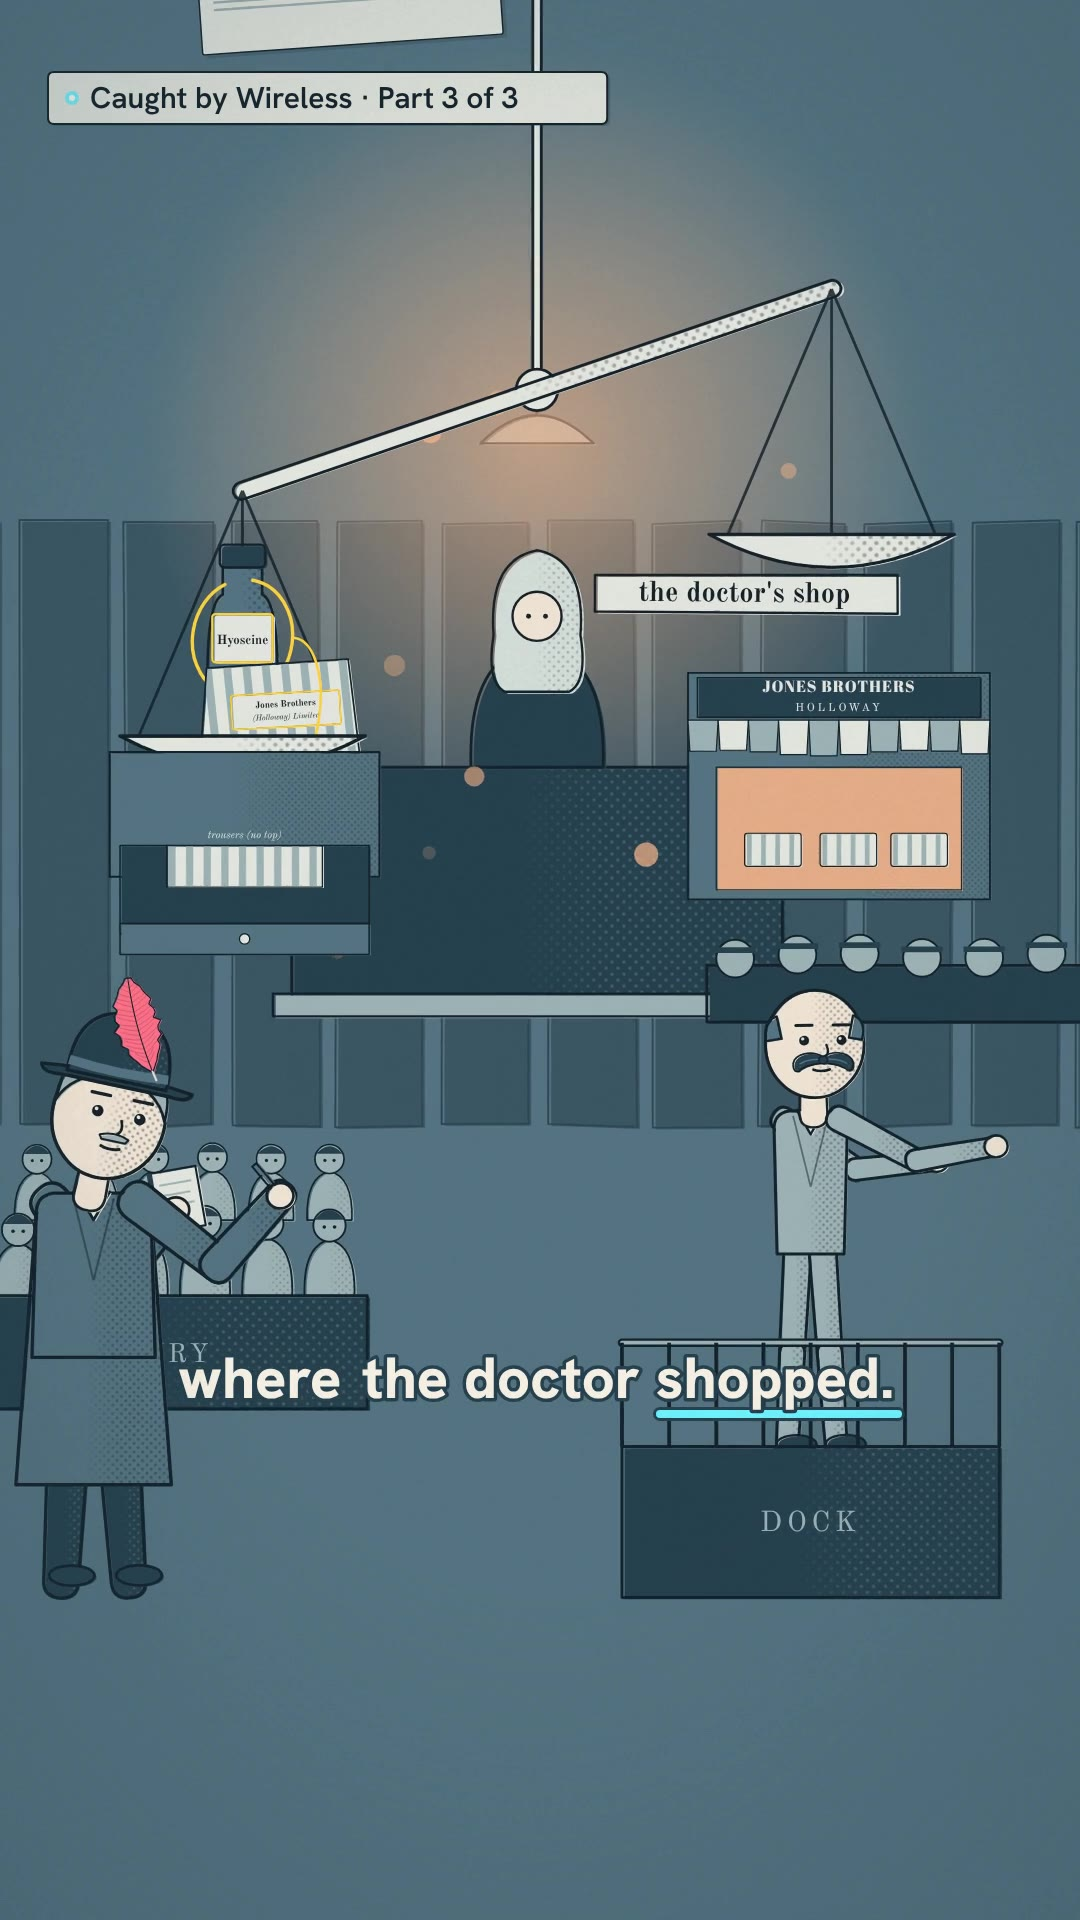
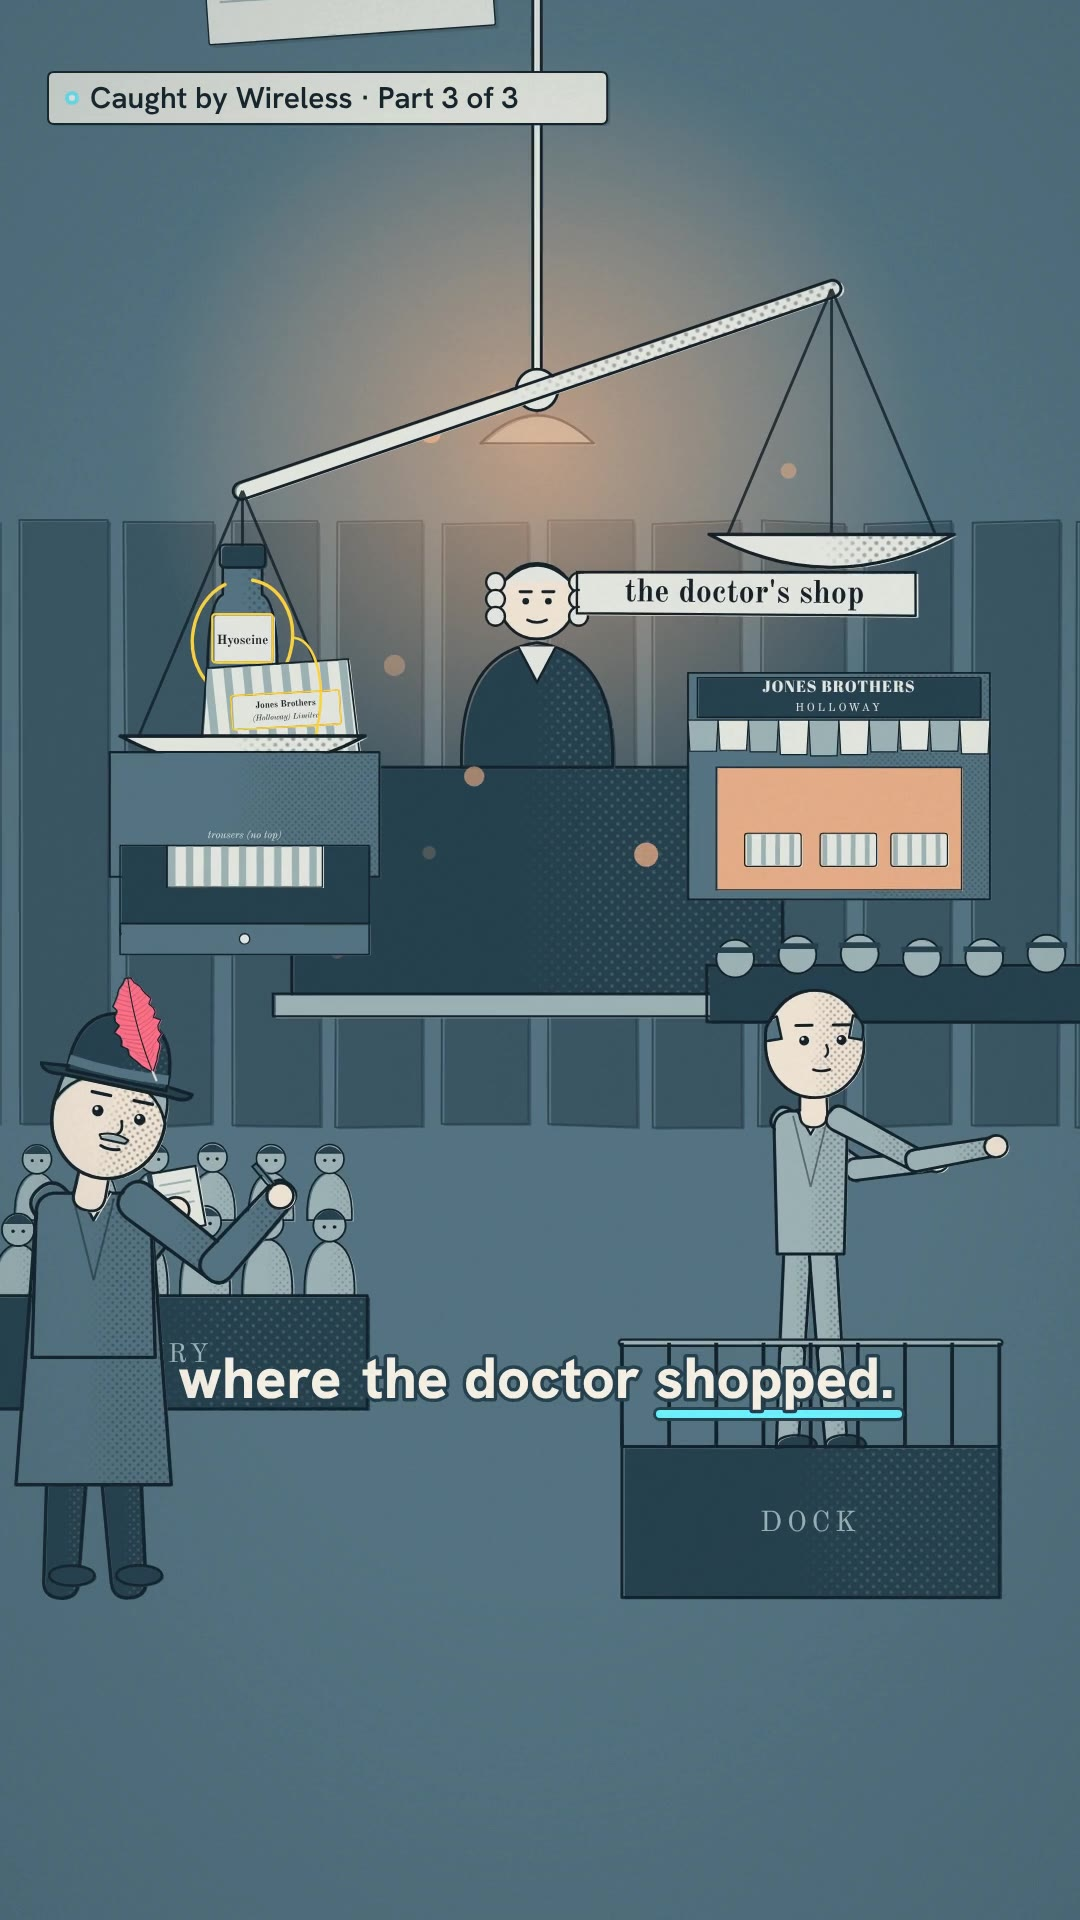
Wireless 3 v1.1 delivered (84.1 s, -14.2 LUFS, -1.8 dBTP, motion median 18): continuity/accuracy fixes; stills + REPORT updated

Changed region(s): [[0.4278, 0.2812, 0.8556, 0.4062], [0.1833, 0.0, 0.4889, 0.0312], [0.7333, 0.5312, 0.7944, 0.5625]]

diff --git a/projects/wireless-3/film/src/p3/scenesA.tsx b/projects/wireless-3/film/src/p3/scenesA.tsx
@@ -126,7 +126,7 @@ const PageBack: React.FC<S> = ({fr}) => (
 );
 export const Recap: React.FC<S> = ({t, fr}) => {
   const keys: [number, Partial<{x: number; y: number; zoom: number; rot: number}>][] = [
-    [0, {x: 540, y: 960, zoom: 1}], [F(1.0), {x: 540, y: 960, zoom: 1}], [F(2.3), {x: 540, y: 1060, zoom: 1.06}], [F(B.l1), {x: 540, y: 1080, zoom: 1.04}],
+    [0, {x: 540, y: 960, zoom: 1}], [F(1.0), {x: 540, y: 960, zoom: 1}], [F(2.3), {x: 540, y: 960, zoom: 1.02}], [F(B.l1), {x: 540, y: 950, zoom: 1.04}],
   ];
   const e = inOut(pr(t, 0.15, 0.85, (x) => x));
   const pw = 190 * PS, ph = 240 * PS, [px, py] = pagePt(226, 290);
@@ -144,7 +144,16 @@ export const Recap: React.FC<S> = ({t, fr}) => {
           <rect x={clip[0]} y={clip[1]} width={clip[2]} height={clip[3]} fill="none" stroke={T.ink} strokeWidth={3 + e * 1} />
         </g>
       )}
-      <Word t={t} at={B.climbed} text="the pilot" x={CAP_PT[0]} y={py + ph + 40} s={34} />
+      <Word t={t} at={B.climbed} text="the pilot" x={px + pw + 110} y={CAP_PT[1] - 40} s={34} />
+      {/* the Spark leaves the plaque and lassos the pilot's panel (P1's lasso device), trailing dots */}
+      {t > 4.1 && Array.from({length: 7}, (_, j) => {
+        const u = Math.max(0, pr(t, 4.1, B.l1 - 4.2, inOut) - j * 0.025);
+        const a0 = -Math.PI / 2 + u * Math.PI * 4, rx = pw * 0.75, ry = ph * 0.7;
+        const enter = Math.min(1, u * 6);
+        const x = lerp(540, CAP_PT[0] + Math.cos(a0) * rx, enter), y = lerp(420, CAP_PT[1] + Math.sin(a0) * ry, enter);
+        return j === 0 ? <g key={j} transform={`translate(${x} ${y})`}><K.spark fr={fr} size={1.1} /></g>
+          : <circle key={j} cx={x} cy={y} r={9 - j} fill={T.spark} opacity={0.7 - j * 0.09} />;
+      })}
       <Scraps t={t} n={6} yMin={1450} yMax={1850} />
       <Motes t={t} n={18} seed="rc" col={T.newsprint} r={8} />
       <Fog fr={fr} y1={1650} y2={1800} />
@@ -156,7 +165,7 @@ export const Recap: React.FC<S> = ({t, fr}) => {
 export const Title: React.FC<S> = ({t, fr}) => {
   const ripple = pr(t, B.part, 0.8);
   const keys: [number, Partial<{x: number; y: number; zoom: number}>][] = [
-    [F(B.l1), {x: 540, y: 1080, zoom: 1.04}], [F(B.l2 - 0.75), {x: 540, y: 1100, zoom: 1.06}], [F(B.l2), {x: CAP_PT[0], y: CAP_PT[1] + 60, zoom: 7}],
+    [F(B.l1), {x: 540, y: 950, zoom: 1.04}], [F(B.l2 - 0.75), {x: 520, y: 950, zoom: 1.07}], [F(B.l2), {x: CAP_PT[0], y: CAP_PT[1] + 60, zoom: 7}],
   ];
   return (
     <Camera fr={fr} keys={keys} background={T.deep}>
@@ -165,8 +174,10 @@ export const Title: React.FC<S> = ({t, fr}) => {
         <K.dailyWireAt fr={fr} x={PX} y={PY} scale={PS} date="31 July 1910" panels={[panelR4(t), panelR5(t)]} />
         {ripple > 0 && ripple < 1 && <circle cx={540} cy={420} r={ripple * 1100} fill="none" stroke={T.ink} strokeWidth={8 * (1 - ripple)} opacity={0.4} />}
       </g>
-      <Scraps t={t} n={6} yMin={1450} yMax={1850} />
+      <Scraps t={t} n={9} yMin={1500} yMax={1900} seed="tsc" />
       <Motes t={t} n={18} seed="rc" col={T.newsprint} r={8} />
+      <Gulls t={t} n={5} y={1720} seed="tg" k={2.2} />
+      {[0, 1].map((sd) => <g key={sd} transform={`translate(${sd ? 1010 : 70} ${1000 + Math.sin(t * 1.3 + sd) * 140}) rotate(${Math.sin(t * 2 + sd) * 25})`}><Sh d={R(-40, -30, 80, 60, 3)} fill={T.newsprint} sw={2.5} /></g>)}
       <Fog fr={fr} y1={1650} y2={1800} />
     </Camera>
   );

diff --git a/projects/wireless-3/REPORT.md b/projects/wireless-3/REPORT.md
@@ -1,6 +1,28 @@
 # Caught by Wireless 3: "The verdict": report (2026-11-08)
 
-**Final:** `projects/wireless-3/renders/wireless-3_v1.mp4` (git-ignored; delivered in the session). 1080×1920, 30 fps,
+## v1.1 (current; 04:21–04:45, after the orchestrator's continuity + accuracy judge)
+**Final:** `projects/wireless-3/renders/wireless-3_v1.1.mp4` (git-ignored; delivered in the session). 1080×1920, 30 fps,
+**84.13 s = 2524 frames** (checked on the MP4 after every splice), last word 81.83 s + 2.3 s tail (the end card holds
+~2.9 s). **−14.2 LUFS, −1.8 dBTP** (ebur128 on the MP4), LRA 1.8 LU. Voice over music under speech (1–4 kHz, voiced
+windows): **9.9 dB** (music +9.6 dB, matched to part 2's ~10 dB).
+**motion_check on the final** vs grand-canyon-01_q: movers median **18 = bar**; one flagged second, **83**, which is the end-card hold
+the brief requires (the star blinks, the Feather sways). Seconds 6–9 were flagged after the plaque/masthead fix. I fixed
+them with life around the held page (tumbling sheets, gulls, side scraps) and the Spark lassoing the pilot's panel, then re-rendered chunk 0 only.
+Temporal: the biggest frame-to-frame brightness jumps are now ≤ 20 (they were 50–100 at hard swaps); hand-offs are an
+iris (the next world opens in a growing circle while the outgoing picture keeps pushing in; nothing semi-transparent).
+Stills replaced: `stills/sheet_1fps.jpg`, `stills/hero_recap.jpg` (frame 0 = part 2's last frame), `hero_arrest.jpg`
+(19.3 s), `hero_scales.jpg` (41.8 s). Fix table: `film/PLAN.md` "v1.1".
+
+**Accuracy change:** Crippen was clean-shaven at the arrest (Dew: "On deck I saw prisoner; he was then clean shaven",
+Old Bailey t19101011-74). The runaway Moustache now lands on his lip as the tagged gag ("Illustration") and hops off at
+once. From "Back in London" and in the dock he has a bare lip and no hat.
+
+**Open (v1.1):** the 2007 page still fills much of the frame for the last ~0.3 s of "one last twist" (the push into the
+lab); the end-card second (83) stays below the motion bar by design; listen to the music level (now ~10 dB under speech).
+
+---
+## v1 (04:20) — superseded
+**v1 file:** `projects/wireless-3/renders/wireless-3_v1.mp4` (git-ignored; delivered in the session). 1080×1920, 30 fps,
 **83.13 s = 2494 frames** (checked on the MP4), last word 81.83 s + 1.3 s tail. **−14.1 LUFS integrated, −1.9 dBTP**
 (ebur128 on the MP4), LRA 1.6 LU (the raw TTS voice alone measures 2.5 LU; two-pass linear loudnorm + lookahead limiter).
 Voice over music in voiced windows (1–4 kHz) 7.6 dB; music up 5.1 dB in the pauses (the series' fixed music setting,

diff --git a/projects/wireless-3/film/PLAN.md b/projects/wireless-3/film/PLAN.md
@@ -209,3 +209,6 @@ From the aligned VO (16/16 lines; ASR fixes "Dr"→"Doctor", "sharp eyed"→"sha
 | 6 | doctor on the Old Bailey roof; Dew cut at 19 s; dissolves; paper over the tab; plaque over the masthead; a sheet across the pilot | doctor walks off before the Old Bailey rises; cabin camera reframed; hand-offs are now an iris (the next world opens in a growing circle while the outgoing picture keeps pushing in; nothing semi-transparent); GUILTY page lowered; page held below the plaque until it lifts (plaque out 0.9 s before line 2 ends); scraps kept low |
 | 7 | voice only 7.6 dB over music | music +9.6 dB: 9.9 dB under speech (1–4 kHz, voiced windows; part 2 ≈ 10) |
 | 8 | frame 0 must match P2's last frame (stills/R5.jpg, hero_84.9s) | frame 0 = the pilot (Dew B) standing at the rail at the top of the rope ladder, dawn sun, Montrose upperworks and hull (kit Montrose/DewB/RopeLadder/Sky), which shrinks into panel 2 of the Daily Wire by 1.0 s; panel 2 is the same picture in miniature |
+- 04:33 v1.1 full render (2524 f); motion_check on the final: median 18, flagged 6–9 + 83. Plaque/masthead reframe,
+  life around the held page, the Spark lassoing the pilot's panel; chunk 0 re-rendered twice (04:39, 04:42) → only 83
+  (the required end-card hold). 04:44 mux, loudness, stills, delivered v1.1.
